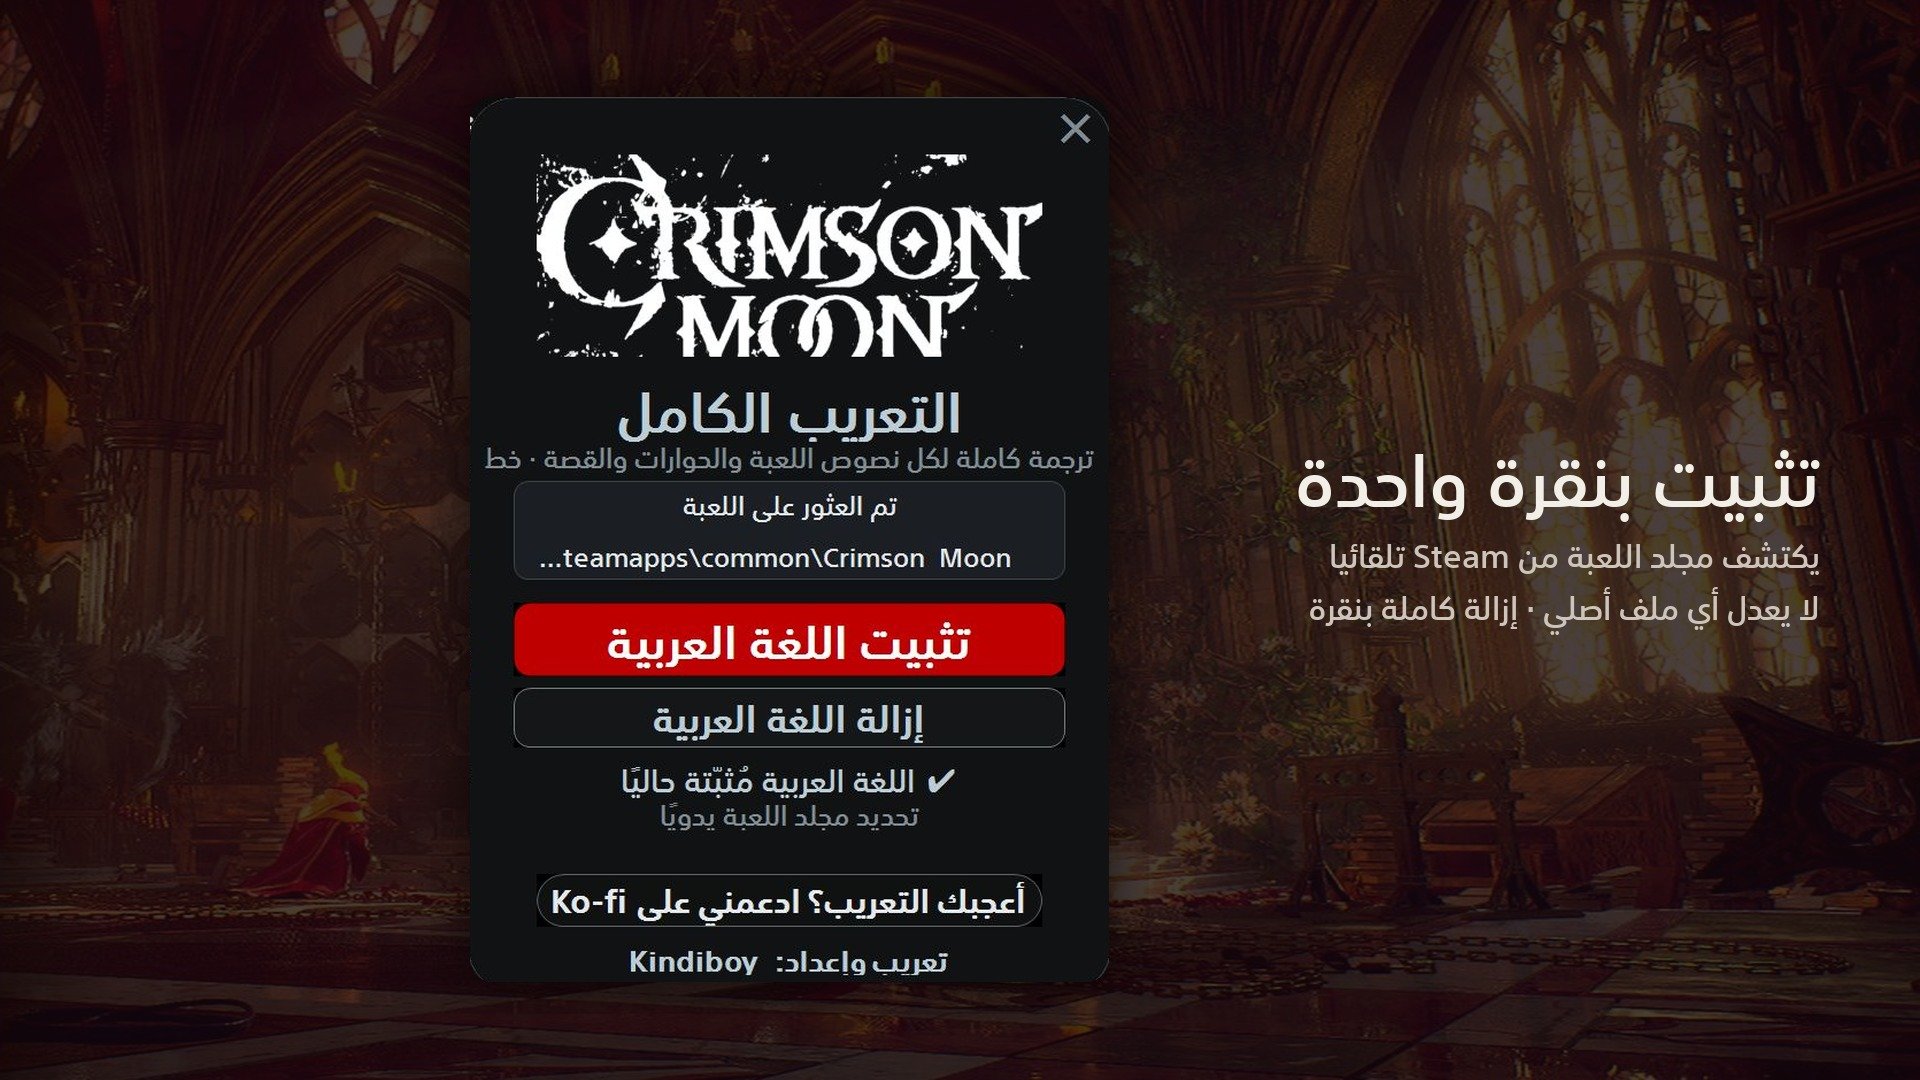
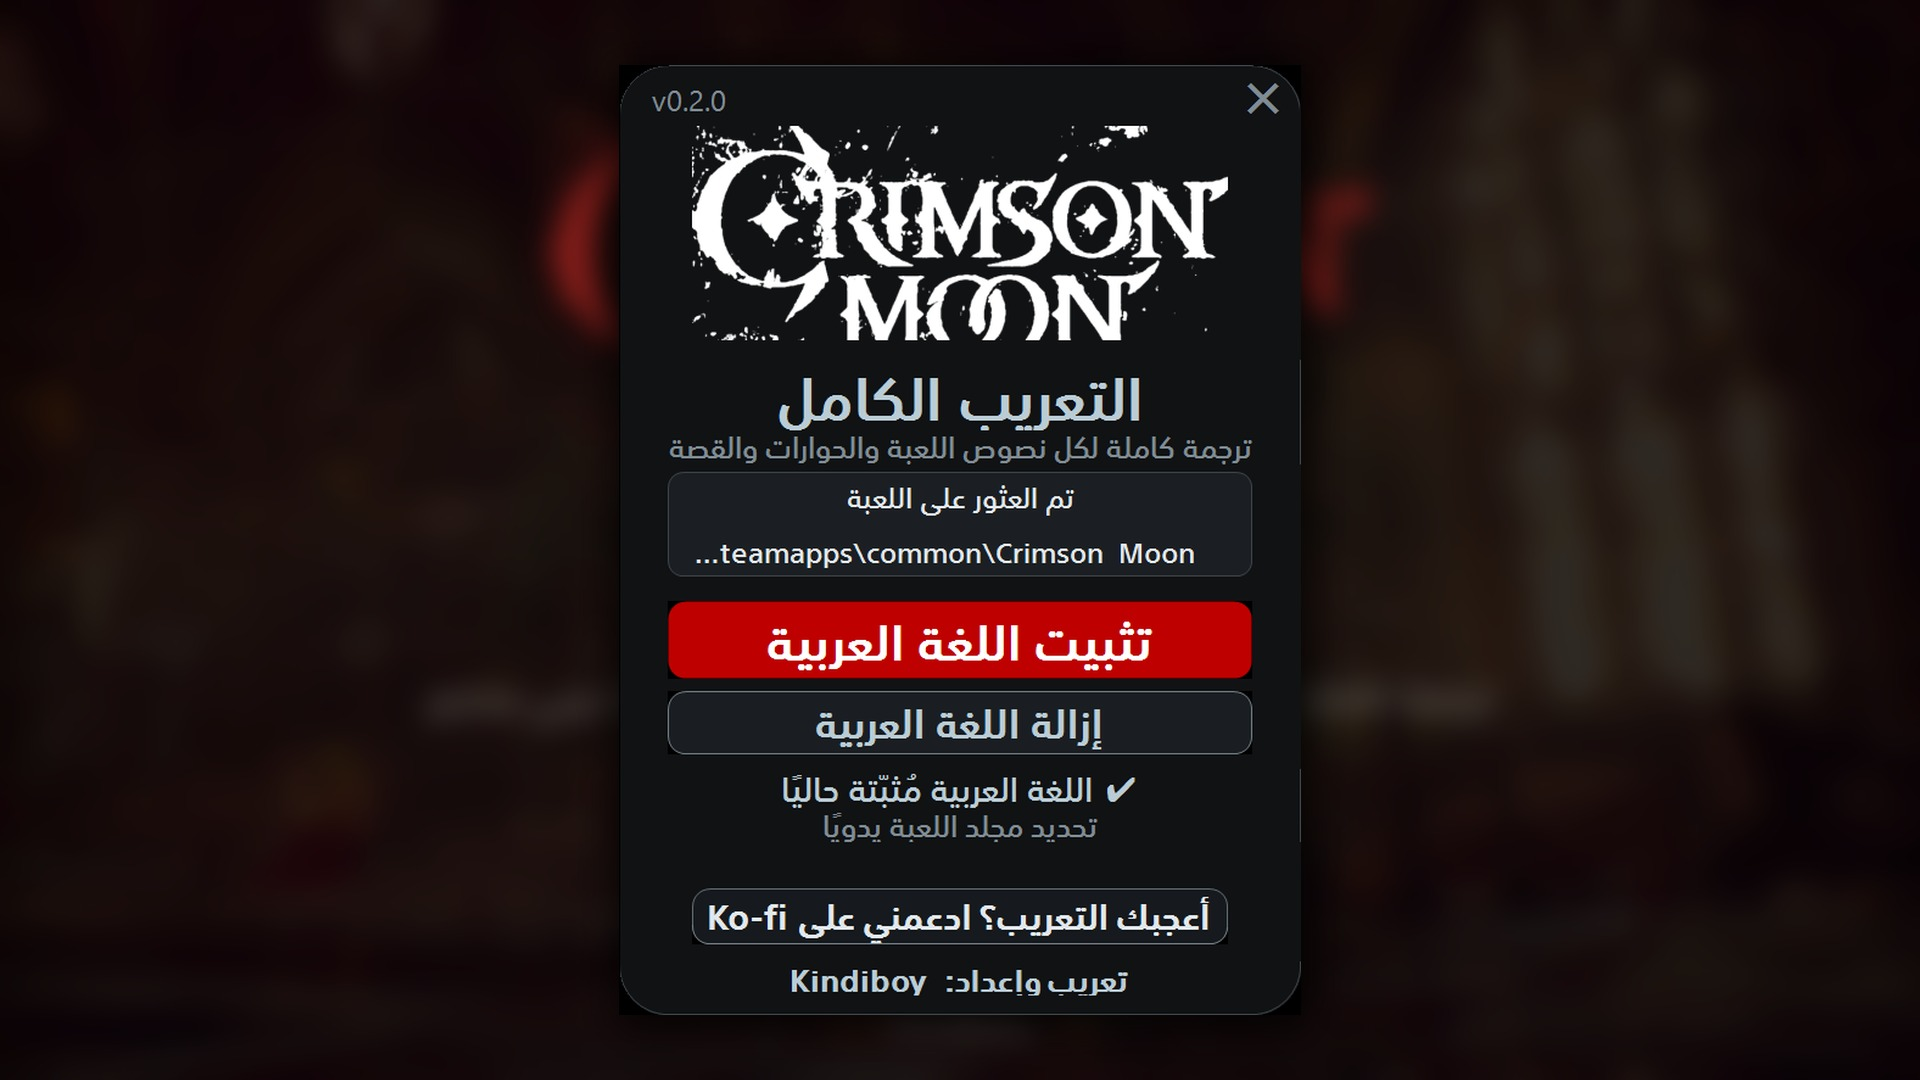
Installer: wording, version label, button fills, tagline

diff --git a/installer/Program.cs b/installer/Program.cs
@@ -16,6 +16,7 @@ namespace CrimsonMoonArabic
 {
     static class Program
     {
+        public const string Version = "0.2.0";
         const string AppId = "4317690";            // Crimson Moon (Steam install dir "Crimson Moon")
         // relative path inside the game folder -> file name inside payload.zip
         static readonly (string dir, string file)[] ModFiles =
@@ -285,6 +286,15 @@ namespace CrimsonMoonArabic
             close.MouseLeave += (s, e) => { close.ForeColor = Ui.Muted; };
             Controls.Add(close);
 
+            var ver = new Label
+            {
+                Text = "v" + Program.Version, Font = new Font("Segoe UI", 9f), ForeColor = Ui.Muted,
+                AutoSize = false, Size = new Size(80, 30), Location = new Point(ClientSize.Width - 92, 14),
+                TextAlign = ContentAlignment.MiddleRight, RightToLeft = RightToLeft.No, BackColor = Color.Transparent
+            };
+            ver.MouseDown += DragStart;
+            Controls.Add(ver);
+
             var logo = new PictureBox
             {
                 Image = Ui.LoadLogo(), SizeMode = PictureBoxSizeMode.Zoom, BackColor = Color.Transparent,
@@ -303,7 +313,7 @@ namespace CrimsonMoonArabic
 
             var tagline = new Label
             {
-                Text = "ترجمة كاملة لكل نصوص اللعبة والحوارات والقصة · خط عربي مدمج",
+                Text = "ترجمة كاملة لكل نصوص اللعبة والحوارات والقصة",
                 Font = Ui.F(9f), ForeColor = Ui.Muted,
                 AutoSize = false, UseCompatibleTextRendering = true, TextAlign = ContentAlignment.MiddleCenter,
                 Size = new Size(ClientSize.Width, 30), Location = new Point(0, 298), BackColor = Color.Transparent
@@ -332,7 +342,7 @@ namespace CrimsonMoonArabic
             btnUninstall = new RoundButton
             {
                 Text = "إزالة اللغة العربية", Font = Ui.F(12f, FontStyle.Bold), Size = new Size(480, 52),
-                Location = new Point((ClientSize.Width - 480) / 2, 514), Base = Color.FromArgb(28, Ui.Gold), Hover = Color.FromArgb(60, Ui.Gold),
+                Location = new Point((ClientSize.Width - 480) / 2, 514), Base = Color.FromArgb(26, 30, 34), Hover = Color.FromArgb(40, 46, 52),
                 Fg = Ui.Gold, Outline = Color.FromArgb(150, Ui.Gold), Radius = 14
             };
             btnUninstall.Click += OnUninstall; Controls.Add(btnUninstall);
@@ -355,8 +365,8 @@ namespace CrimsonMoonArabic
             var kofi = new RoundButton
             {
                 Text = "أعجبك التعريب؟ ادعمني على Ko-fi", Font = Ui.F(10.5f, FontStyle.Bold), Size = new Size(440, 46),
-                Location = new Point((ClientSize.Width - 440) / 2, 676), Base = Color.FromArgb(22, Ui.Gold), Hover = Color.FromArgb(55, Ui.Gold),
-                Fg = Ui.Text, Outline = Color.FromArgb(120, Ui.Gold), Radius = 23
+                Location = new Point((ClientSize.Width - 440) / 2, 676), Base = Color.FromArgb(22, 26, 30), Hover = Color.FromArgb(36, 42, 48),
+                Fg = Ui.Text, Outline = Color.FromArgb(120, Ui.Gold), Radius = 14
             };
             kofi.Click += (s, e) => { try { Process.Start(new ProcessStartInfo("https://ko-fi.com/kindiboy") { UseShellExecute = true }); } catch { } };
             Controls.Add(kofi);
